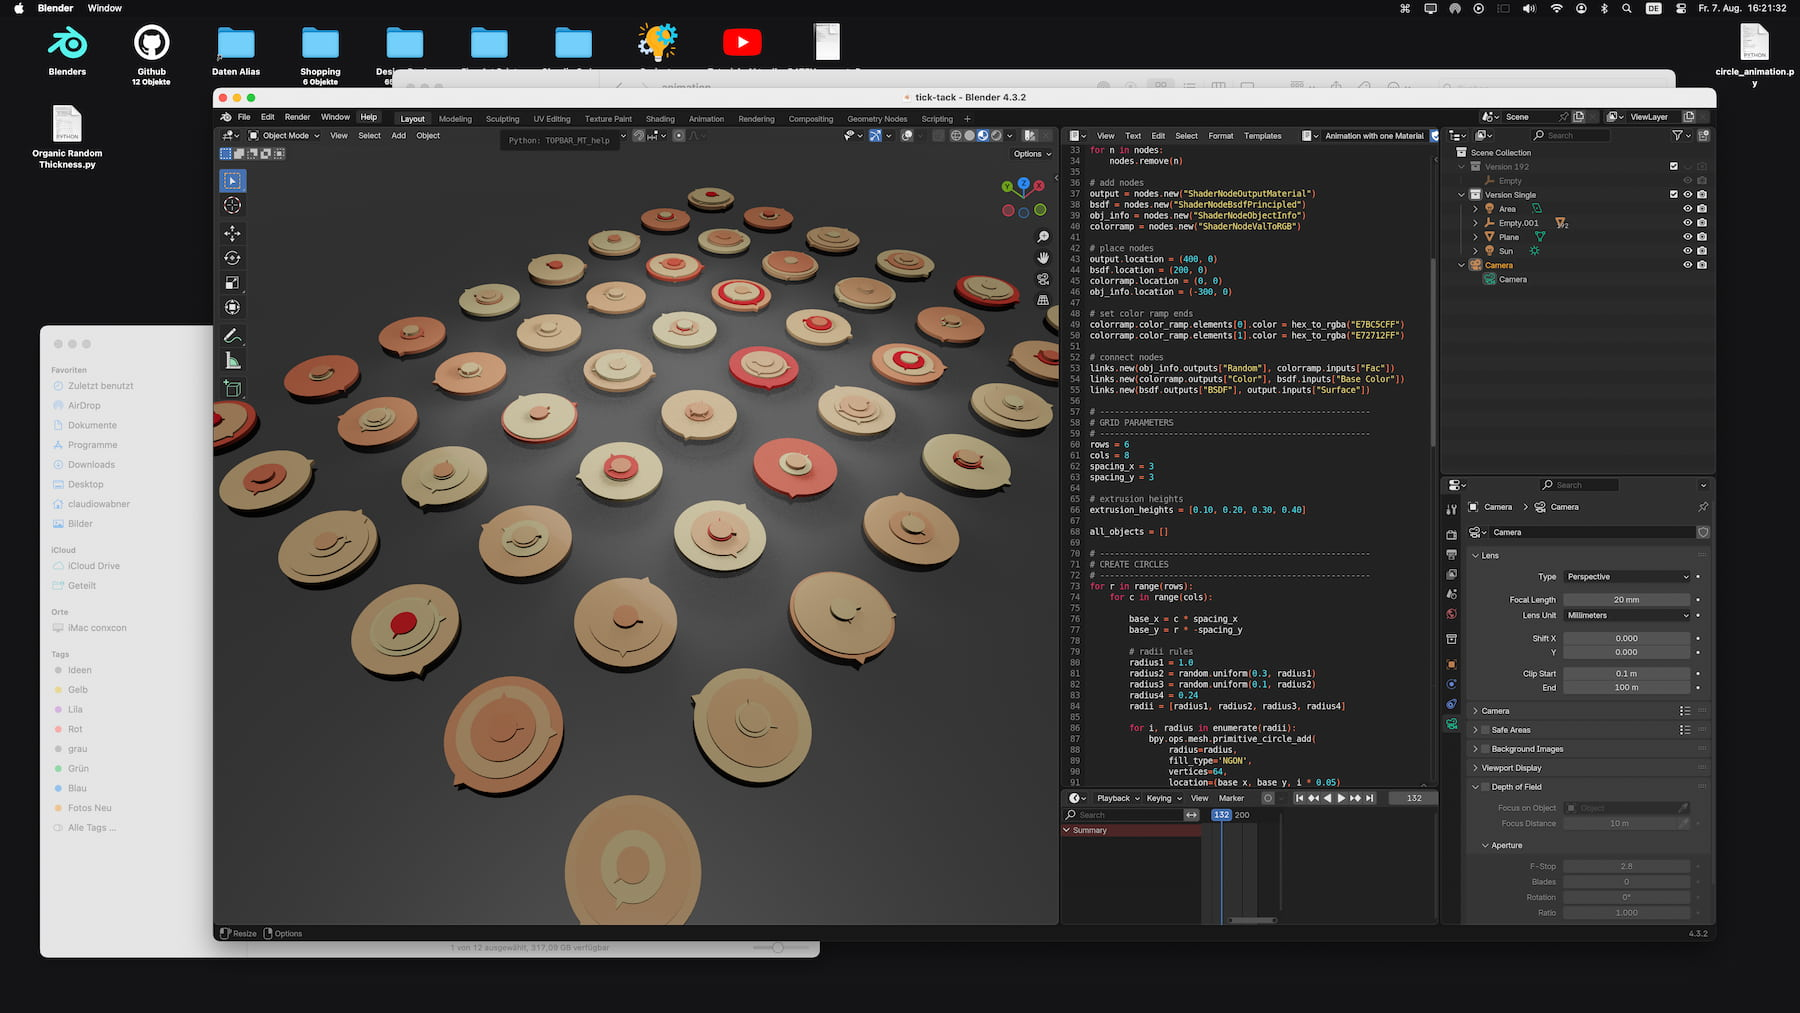
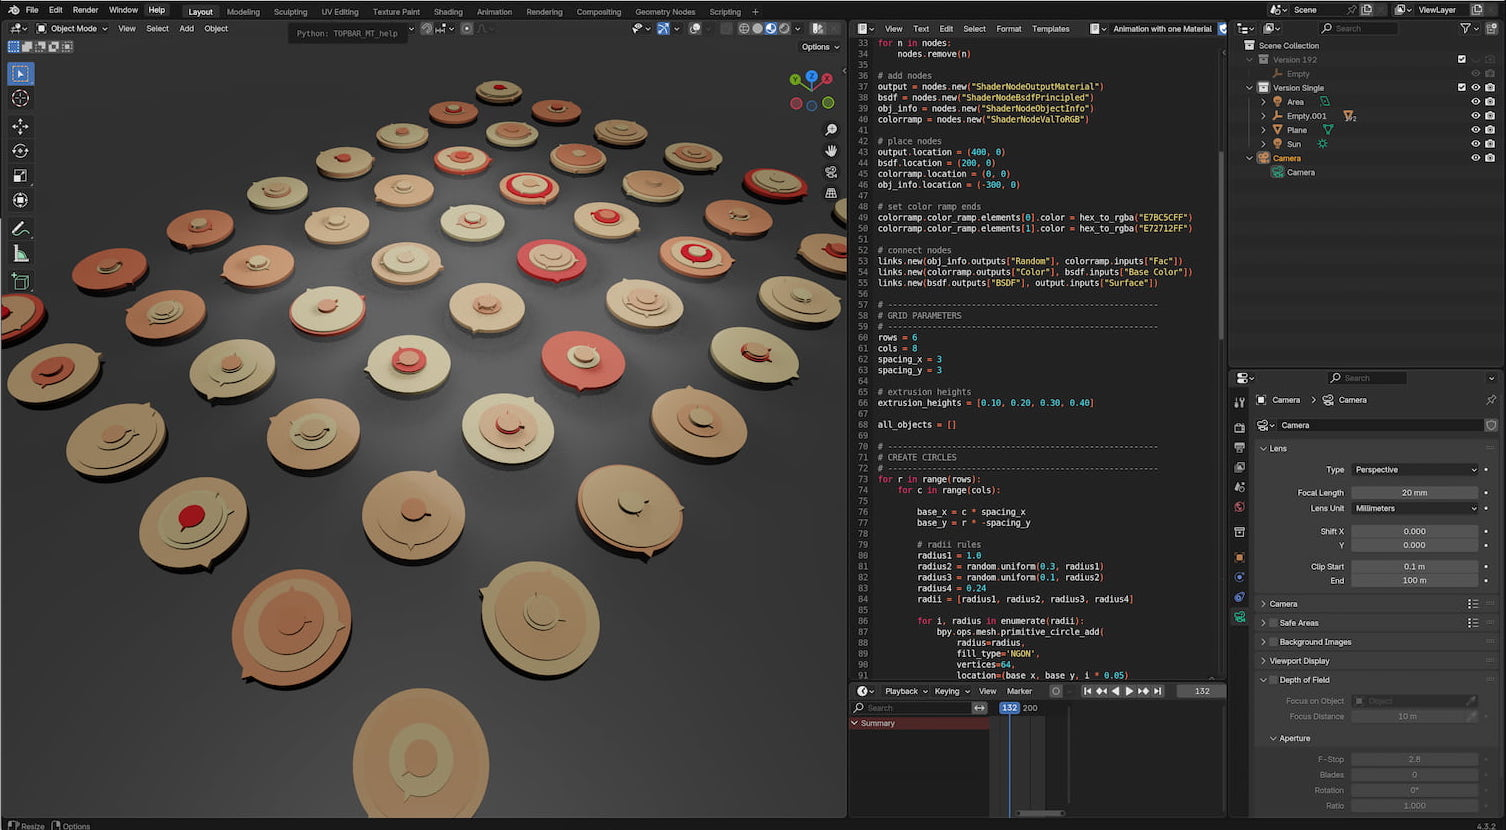
up
update

diff --git a/circle_animation/README.md b/circle_animation/README.md
@@ -10,15 +10,15 @@ this little tools builds a funny cylinder animation.
 load the script in the blender txt environment, in the script you can see the parameter. when you have the the desired parameter press run, and the animation will be created
 
 ### grid parameter
-rows = 6
-cols = 8
-spacing_x = 3
-spacing_y = 3
+* rows = 6
+* cols = 8
+* spacing_x = 3
+* spacing_y = 3
 
 ### extrusion heights parameter
 extrusion_heights = [0.10, 0.20, 0.30, 0.40]
 
 ### set color ramp ends
-colorramp.color_ramp.elements[0].color = hex_to_rgba("E7BC5CFF")
-colorramp.color_ramp.elements[1].color = hex_to_rgba("E72712FF")
+* colorramp.color_ramp.elements[0].color = hex_to_rgba("E7BC5CFF")
+* colorramp.color_ramp.elements[1].color = hex_to_rgba("E72712FF")
 
